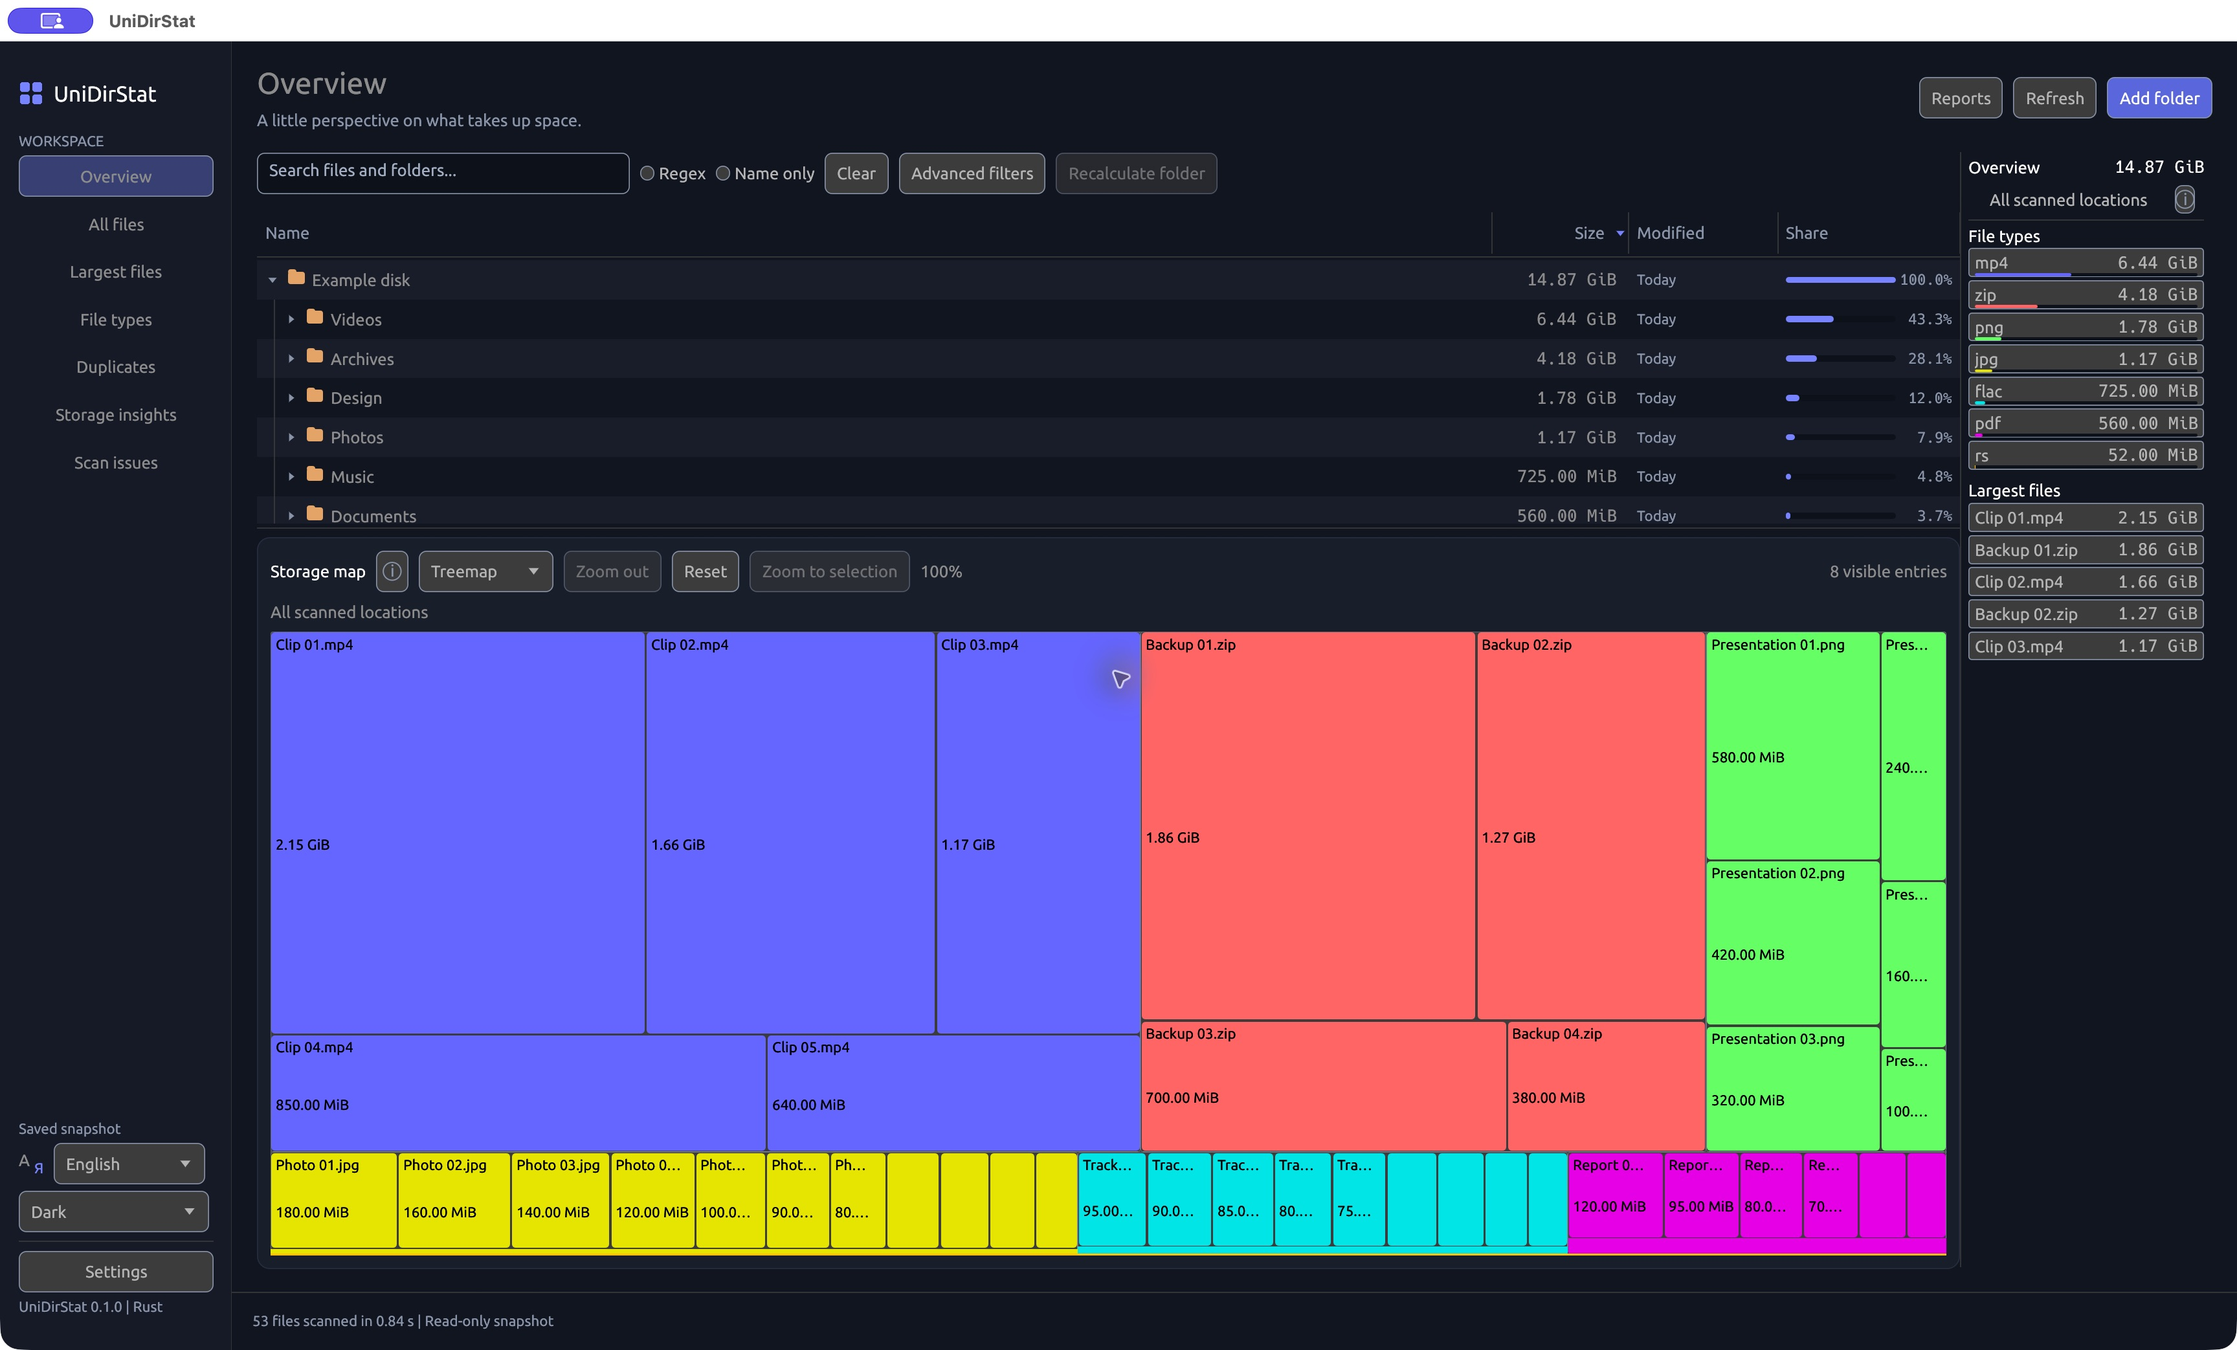
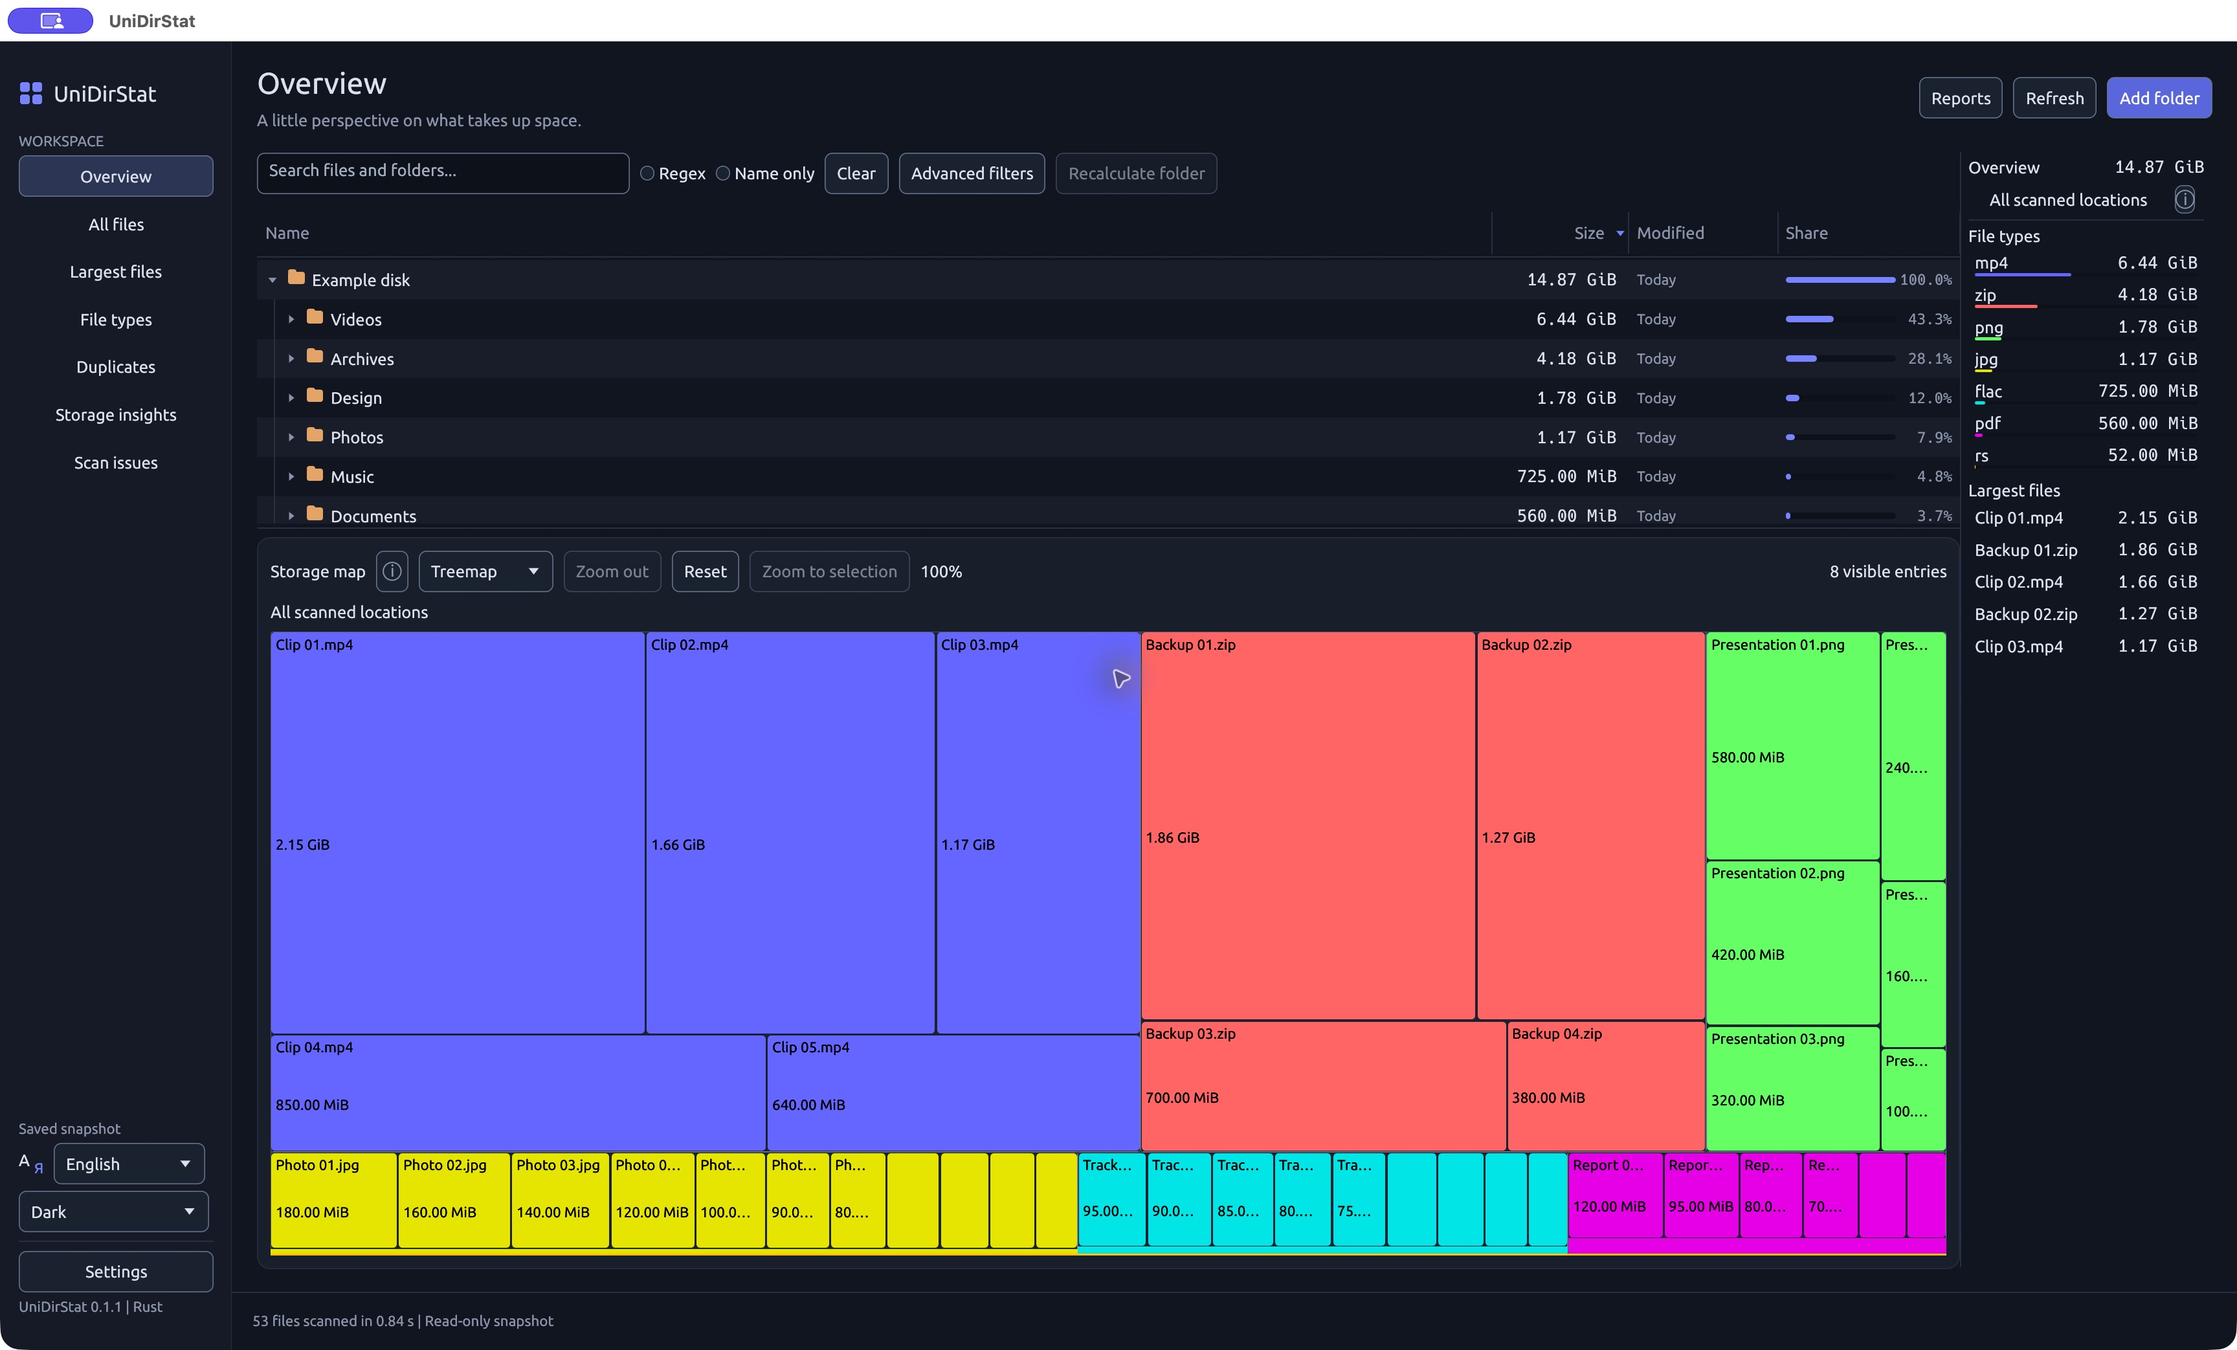
Polish interface themes and prepare version 0.1.1

diff --git a/src/app.rs b/src/app.rs
@@ -43,7 +43,7 @@ const WATCH_PATH_LIMIT: usize = 1024;
 const DEFAULT_COLUMN_WIDTHS: [f32; 4] = [0.0, 132.0, 144.0, 176.0];
 const CONTROL_BORDER: [Color32; 2] = [
     Color32::from_rgb(112, 126, 147),
-    Color32::from_rgb(137, 148, 169),
+    Color32::from_rgb(99, 115, 140),
 ];
 const ERROR_TEXT: [Color32; 2] = [
     Color32::from_rgb(164, 34, 59),
@@ -957,19 +957,80 @@ impl UniDirStatApp {
         } else {
             Color32::from_rgb(239, 242, 248)
         };
-        style.visuals.selection.bg_fill = ACCENT.gamma_multiply(if dark { 0.35 } else { 0.25 });
-        style.visuals.widgets.inactive.bg_stroke =
-            Stroke::new(1.0, CONTROL_BORDER[usize::from(dark)]);
-        style.visuals.selection.stroke =
-            Stroke::new(2.0, if dark { ACCENT } else { PRIMARY_BUTTON });
+        let text = if dark {
+            Color32::from_rgb(218, 225, 237)
+        } else {
+            Color32::from_rgb(39, 50, 67)
+        };
+        let accent = if dark { ACCENT } else { PRIMARY_BUTTON };
+        let separator = if dark {
+            Color32::from_rgb(43, 54, 73)
+        } else {
+            Color32::from_rgb(210, 217, 229)
+        };
+        style.visuals.widgets.noninteractive.fg_stroke = Stroke::new(1.0, text);
+        style.visuals.widgets.noninteractive.bg_fill = style.visuals.window_fill;
+        style.visuals.widgets.noninteractive.bg_stroke = Stroke::new(1.0, separator);
+        style.visuals.window_stroke = Stroke::new(1.0, separator);
+        style.visuals.selection.bg_fill = if dark {
+            Color32::from_rgb(45, 53, 85)
+        } else {
+            Color32::from_rgb(223, 229, 255)
+        };
+        style.visuals.selection.stroke = Stroke::new(
+            2.0,
+            if dark {
+                Color32::from_rgb(177, 187, 255)
+            } else {
+                Color32::from_rgb(61, 73, 168)
+            },
+        );
         style.visuals.hyperlink_color = if dark { ACCENT } else { PRIMARY_BUTTON };
-        for widget in [
-            &mut style.visuals.widgets.inactive,
-            &mut style.visuals.widgets.hovered,
-            &mut style.visuals.widgets.active,
+        for (widget, fill) in [
+            (
+                &mut style.visuals.widgets.inactive,
+                if dark {
+                    Color32::from_rgb(26, 33, 47)
+                } else {
+                    Color32::from_rgb(239, 242, 248)
+                },
+            ),
+            (
+                &mut style.visuals.widgets.hovered,
+                if dark {
+                    Color32::from_rgb(35, 45, 63)
+                } else {
+                    Color32::from_rgb(227, 233, 245)
+                },
+            ),
+            (
+                &mut style.visuals.widgets.active,
+                if dark {
+                    Color32::from_rgb(43, 55, 76)
+                } else {
+                    Color32::from_rgb(216, 224, 242)
+                },
+            ),
+            (
+                &mut style.visuals.widgets.open,
+                if dark {
+                    Color32::from_rgb(31, 41, 58)
+                } else {
+                    Color32::from_rgb(228, 235, 248)
+                },
+            ),
         ] {
+            widget.bg_fill = fill;
+            widget.weak_bg_fill = fill;
+            widget.bg_stroke = Stroke::new(1.0, CONTROL_BORDER[usize::from(dark)]);
+            widget.fg_stroke = Stroke::new(1.0, text);
             widget.corner_radius = CornerRadius::same(7);
+            widget.expansion = 0.0;
         }
+        style.visuals.widgets.hovered.bg_stroke = Stroke::new(1.0, accent);
+        style.visuals.widgets.active.bg_stroke = Stroke::new(2.0, accent);
+        style.visuals.widgets.open.bg_stroke = Stroke::new(1.0, accent);
+        style.visuals.code_bg_color = style.visuals.widgets.inactive.bg_fill;
         context.set_style(style);
     }
 
@@ -1602,9 +1663,12 @@ impl UniDirStatApp {
                     self.page = Page::Settings;
                 }
                 controls_ui.label(
-                    RichText::new(tr("UniDirStat 0.1.0 | Rust"))
-                        .size(HELP_SIZE)
-                        .color(muted(&controls_ui)),
+                    RichText::new(trf(
+                        "UniDirStat {version} | Rust",
+                        &[("version", env!("CARGO_PKG_VERSION").to_owned())],
+                    ))
+                    .size(HELP_SIZE)
+                    .color(muted(&controls_ui)),
                 );
             });
     }
@@ -2708,7 +2772,7 @@ impl UniDirStatApp {
             ui.label(tr("Releases have not been published yet. Update checks will be available after publication."));
         });
         ui.add_space(12.0);
-        card(ui).show(ui,|ui| { ui.set_min_width(ui.available_width()); ui.strong(tr("UniDirStat 0.1.0")); ui.label(tr("A Rust disk usage explorer inspired by WinDirStat. Native Windows, macOS and Linux architecture. Your scan stays on your computer.")); ui.hyperlink_to(tr("WinDirStat reference project"),"https://github.com/windirstat/windirstat"); ui.label(RichText::new(tr("Raw NTFS/MTP scanning, deleted-file recovery, ACL editing and OS-specific cleanup tools are not implemented.")).small().color(muted(ui))); });
+        card(ui).show(ui,|ui| { ui.set_min_width(ui.available_width()); ui.strong(trf("UniDirStat {version}", &[("version", env!("CARGO_PKG_VERSION").to_owned())])); ui.label(tr("A Rust disk usage explorer inspired by WinDirStat. Native Windows, macOS and Linux architecture. Your scan stays on your computer.")); ui.hyperlink_to(tr("WinDirStat reference project"),"https://github.com/windirstat/windirstat"); ui.label(RichText::new(tr("Raw NTFS/MTP scanning, deleted-file recovery, ACL editing and OS-specific cleanup tools are not implemented.")).small().color(muted(ui))); });
     }
 
     fn inspector(&mut self, context: &egui::Context) {
@@ -4191,6 +4255,56 @@ mod tests {
     #[test]
     fn primary_button_has_readable_white_text() {
         assert!(contrast(Color32::WHITE, PRIMARY_BUTTON) >= 4.5);
+    }
+
+    #[test]
+    fn sidebar_version_follows_the_package_version() {
+        let context = egui::Context::default();
+        let creation = eframe::CreationContext::_new_kittest(context.clone());
+        let mut app = UniDirStatApp::new(&creation, Vec::new(), None, ScanOptions::default(), None);
+        let output = context.run(
+            egui::RawInput {
+                screen_rect: Some(egui::Rect::from_min_size(
+                    egui::Pos2::ZERO,
+                    Vec2::new(1700.0, 900.0),
+                )),
+                ..Default::default()
+            },
+            |context| app.sidebar(context),
+        );
+        let expected = format!("UniDirStat {} | Rust", env!("CARGO_PKG_VERSION"));
+        assert!(output.shapes.iter().any(|shape| {
+            matches!(&shape.shape, egui::Shape::Text(text) if text.galley.text() == expected)
+        }));
+    }
+
+    #[test]
+    fn control_surfaces_follow_the_theme_with_readable_text_and_focus() {
+        let context = egui::Context::default();
+        let creation = eframe::CreationContext::_new_kittest(context.clone());
+        let mut app = UniDirStatApp::new(&creation, Vec::new(), None, ScanOptions::default(), None);
+        for theme in [Theme::Dark, Theme::Light, Theme::Dark] {
+            app.settings.theme = theme;
+            app.apply_theme(&context);
+            let visuals = context.style().visuals.clone();
+            let widgets = &visuals.widgets;
+            if theme == Theme::Dark {
+                assert!(widgets.inactive.weak_bg_fill.r() < 40);
+                assert!(widgets.inactive.weak_bg_fill.b() > widgets.inactive.weak_bg_fill.r());
+            }
+            for widget in [
+                widgets.inactive,
+                widgets.hovered,
+                widgets.active,
+                widgets.open,
+            ] {
+                assert!(contrast(widget.text_color(), widget.weak_bg_fill) >= 4.5);
+            }
+            assert!(contrast(visuals.text_color(), visuals.panel_fill) >= 4.5);
+            assert!(contrast(visuals.selection.stroke.color, visuals.selection.bg_fill) >= 4.5);
+            assert!(contrast(widgets.active.bg_stroke.color, widgets.active.weak_bg_fill) >= 3.0);
+            assert!(contrast(widgets.inactive.bg_stroke.color, visuals.extreme_bg_color) >= 3.0);
+        }
     }
 
     #[test]

diff --git a/src/app/workspace.rs b/src/app/workspace.rs
@@ -168,13 +168,13 @@ fn summary_row(ui: &mut egui::Ui, label: &str, value: &str, selected: bool) -> e
         response.request_focus();
     }
     let visuals = ui.style().interact_selectable(&response, selected);
-    ui.painter().rect(
-        rect,
-        3.0,
-        visuals.weak_bg_fill,
-        visuals.bg_stroke,
-        StrokeKind::Inside,
-    );
+    if selected
+        || response.hovered()
+        || response.has_focus()
+        || response.is_pointer_button_down_on()
+    {
+        ui.painter().rect_filled(rect, 3.0, visuals.weak_bg_fill);
+    }
     let font = FontId::monospace(BODY_SIZE);
     let (value_galley, reserved_width) = ui.fonts_mut(|fonts| {
         let value_galley =
@@ -1014,6 +1014,22 @@ impl UniDirStatApp {
 #[cfg(test)]
 mod tests {
     use super::*;
+
+    #[test]
+    fn idle_summary_rows_do_not_paint_button_boxes() {
+        let context = egui::Context::default();
+        let mut row = egui::Rect::NOTHING;
+        let output = context.run(egui::RawInput::default(), |context| {
+            egui::CentralPanel::default().show(context, |ui| {
+                row = summary_row(ui, "zip", "1.25 GiB", false).rect;
+            });
+        });
+        assert!(
+            !output.shapes.iter().any(|shape| {
+                matches!(&shape.shape, egui::Shape::Rect(rect) if rect.rect == row)
+            })
+        );
+    }
 
     fn summary_fixture(
         context: &egui::Context,

diff --git a/README.ru.md b/README.ru.md
@@ -135,17 +135,17 @@ cargo test --no-default-features --locked
 
 [GitHub Actions](.github/workflows/ci.yml) запускает проверку форматирования, тесты со всеми возможностями, Clippy, тесты CLI и упаковку при push в `main` и pull request в `main`. Сборку без публикации также можно запустить через **Actions → Desktop builds → Run workflow**. Каждый запуск сохраняет установочные файлы с версией в артефактах workflow; это временные загрузки, а не опубликованные релизы.
 
-Версия берётся из `[package].version` в `Cargo.toml` и попадает в имена установочных файлов и метаданные пакетов приложения. Тег релиза должен точно совпадать с ней: `v0.1.0` для версии `0.1.0`. При несовпадении workflow завершается до упаковки.
+Версия берётся из `[package].version` в `Cargo.toml` и попадает в имена установочных файлов и метаданные пакетов приложения. Тег релиза должен точно совпадать с ней: `v0.1.1` для версии `0.1.1`. При несовпадении workflow завершается до упаковки.
 
 Чтобы выпустить релиз после размещения репозитория на GitHub:
 
 1. Задайте новую версию пакета в `Cargo.toml`, выполните `cargo check` для обновления `Cargo.lock`, запустите проверки выше и закоммитьте оба файла версии в `main`.
-2. Создайте тег этого коммита и отправьте ветку и тег; для текущей версии `0.1.0`:
+2. Создайте тег этого коммита и отправьте ветку и тег; для текущей версии `0.1.1`:
 
    ```sh
-   git tag -a v0.1.0 -m "UniDirStat 0.1.0"
+   git tag -a v0.1.1 -m "UniDirStat 0.1.1"
    git push origin main
-   git push origin v0.1.0
+   git push origin v0.1.1
    ```
 
 3. Actions собирает все пять файлов, проверяет комплектность, загружает их в черновик релиза и скачивает обратно для сверки SHA-256. Только после этого релиз публикуется. Стабильный тег становится Latest; тег вида `v0.2.0-beta.1` создаёт предварительный выпуск и не заменяет Latest. Неуспешный запуск не публикует новый релиз, но может оставить черновик для проверки или повторного запуска.

diff --git a/README.md b/README.md
@@ -135,17 +135,17 @@ cargo test --no-default-features --locked
 
 [GitHub Actions](.github/workflows/ci.yml) runs formatting, all-feature tests, Clippy, headless tests and native packaging on pushes to `main` and pull requests targeting `main`. You can also run **Actions → Desktop builds → Run workflow** without publishing a release. Each run saves versioned installers as workflow artifacts; artifacts are temporary downloads, not published releases.
 
-The version comes from `[package].version` in `Cargo.toml` and is included in installer filenames and application package metadata. A release tag must match it exactly: `v0.1.0` for version `0.1.0`. A mismatch fails the workflow before packaging.
+The version comes from `[package].version` in `Cargo.toml` and is included in installer filenames and application package metadata. A release tag must match it exactly: `v0.1.1` for version `0.1.1`. A mismatch fails the workflow before packaging.
 
 To publish a release after the repository is on GitHub:
 
 1. Set the new package version in `Cargo.toml`, run `cargo check` to update `Cargo.lock`, run the checks above, and commit both version files on `main`.
-2. Tag that commit and push the branch and tag; for the current `0.1.0` version:
+2. Tag that commit and push the branch and tag; for the current `0.1.1` version:
 
    ```sh
-   git tag -a v0.1.0 -m "UniDirStat 0.1.0"
+   git tag -a v0.1.1 -m "UniDirStat 0.1.1"
    git push origin main
-   git push origin v0.1.0
+   git push origin v0.1.1
    ```
 
 3. Actions builds all five assets, verifies their complete set, uploads them to a draft release and downloads them again to verify SHA-256 hashes. Only then is the release published. Stable tags become Latest; tags such as `v0.2.0-beta.1` become prereleases and do not replace Latest. A failed run does not publish a new release; it may leave a draft for inspection or retry.
